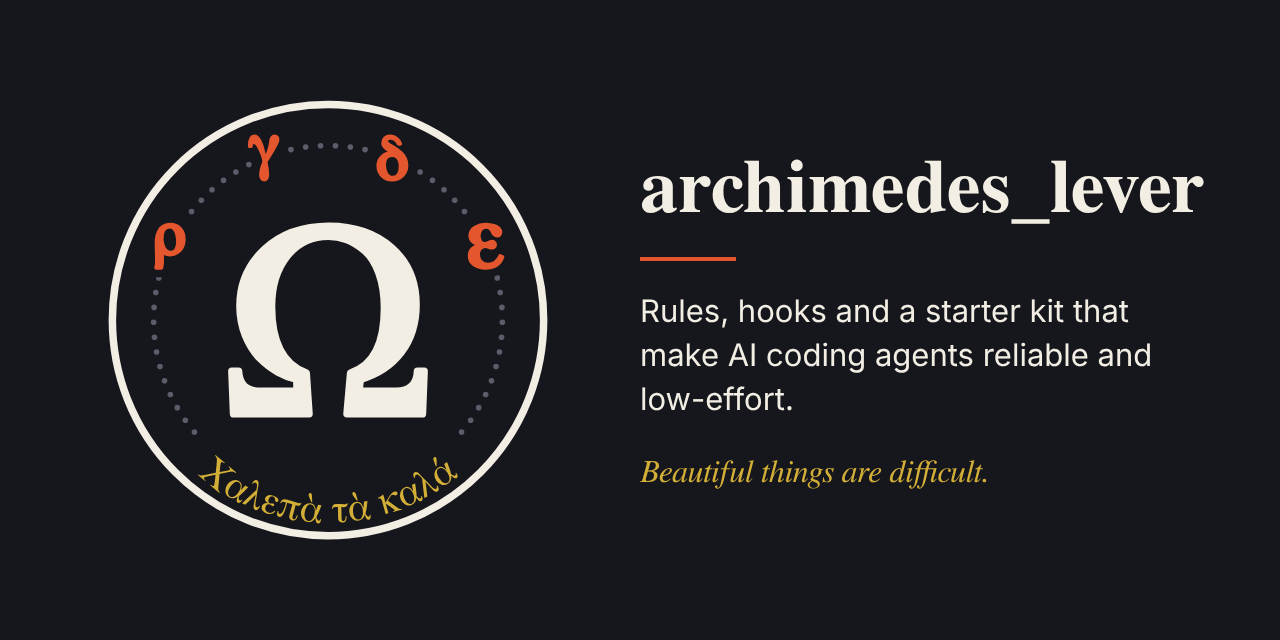
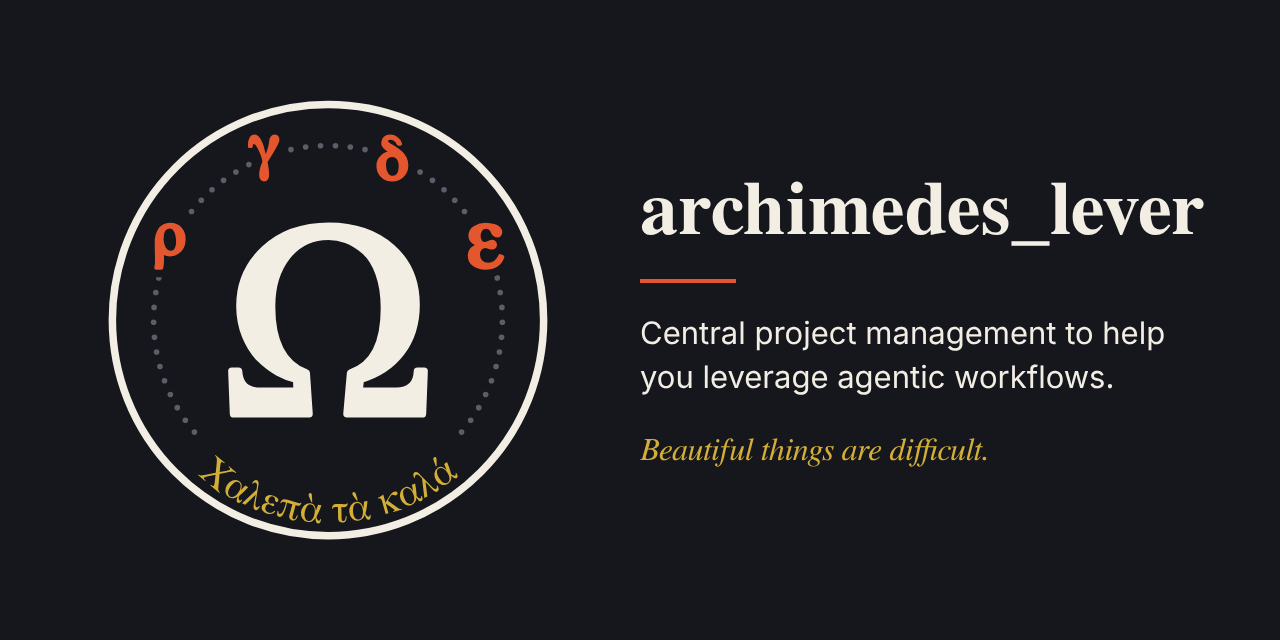
Update the social preview description
The card now reads "Central project management to help you leverage
agentic workflows." (the owner's text); social-preview.png is rebuilt
from social-preview.html at 1280x640.

Claude-Session: https://claude.ai/code/session_01PyXpdVkXyNRae2nz8Yxaaa

Changed region(s): [[0.5, 0.4375, 0.9062, 0.6562], [0.5, 0.25, 0.9375, 0.4062], [0.5, 0.6875, 0.7812, 0.7812]]

diff --git a/docs/assets/social-preview.html b/docs/assets/social-preview.html
@@ -14,7 +14,7 @@ html,body{margin:0;background:#15171D}
 <div>
 <h1 class="title">archimedes_lever</h1>
 <div class="rule"></div>
-<p class="desc">Rules, hooks and a starter kit that make AI coding agents reliable and low-effort.</p>
+<p class="desc">Central project management to help you leverage agentic workflows.</p>
 <p class="motto">Beautiful things are difficult.</p>
 </div>
 </div></body></html>
